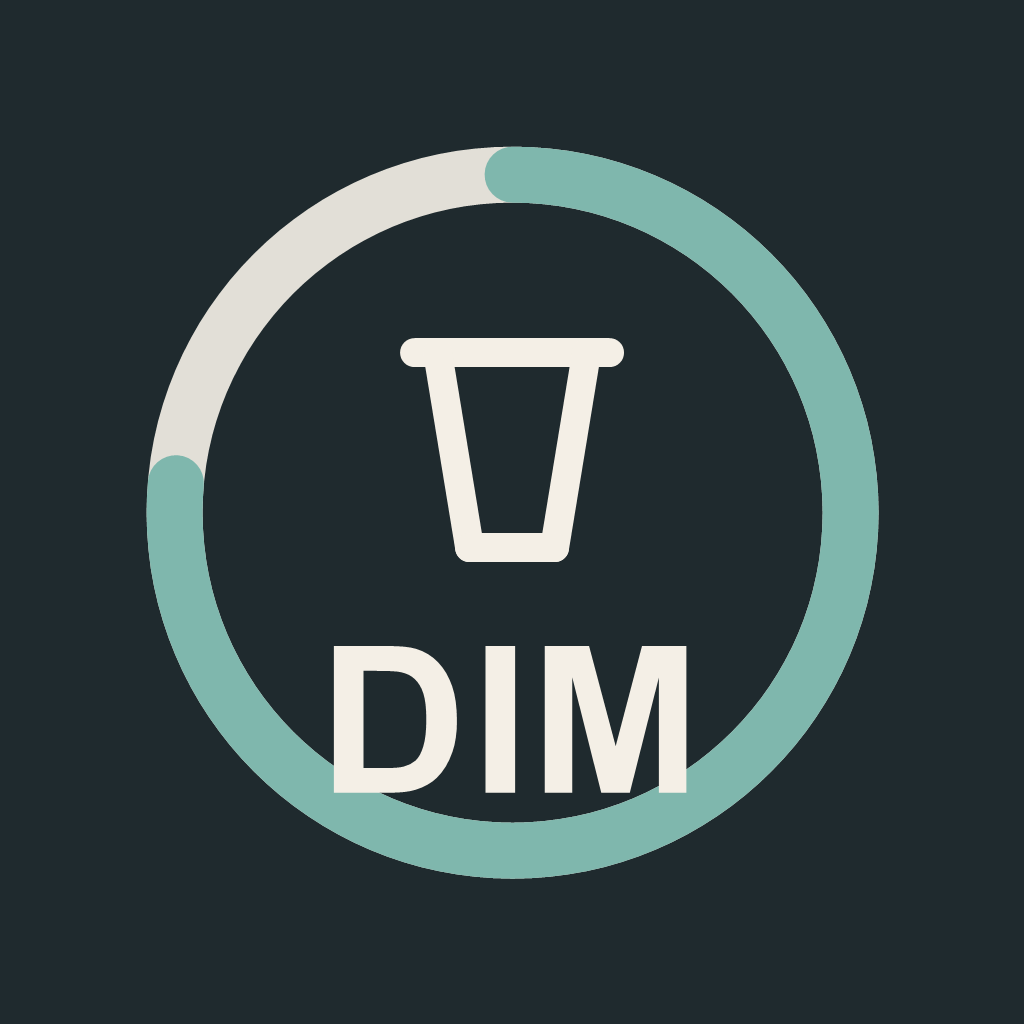
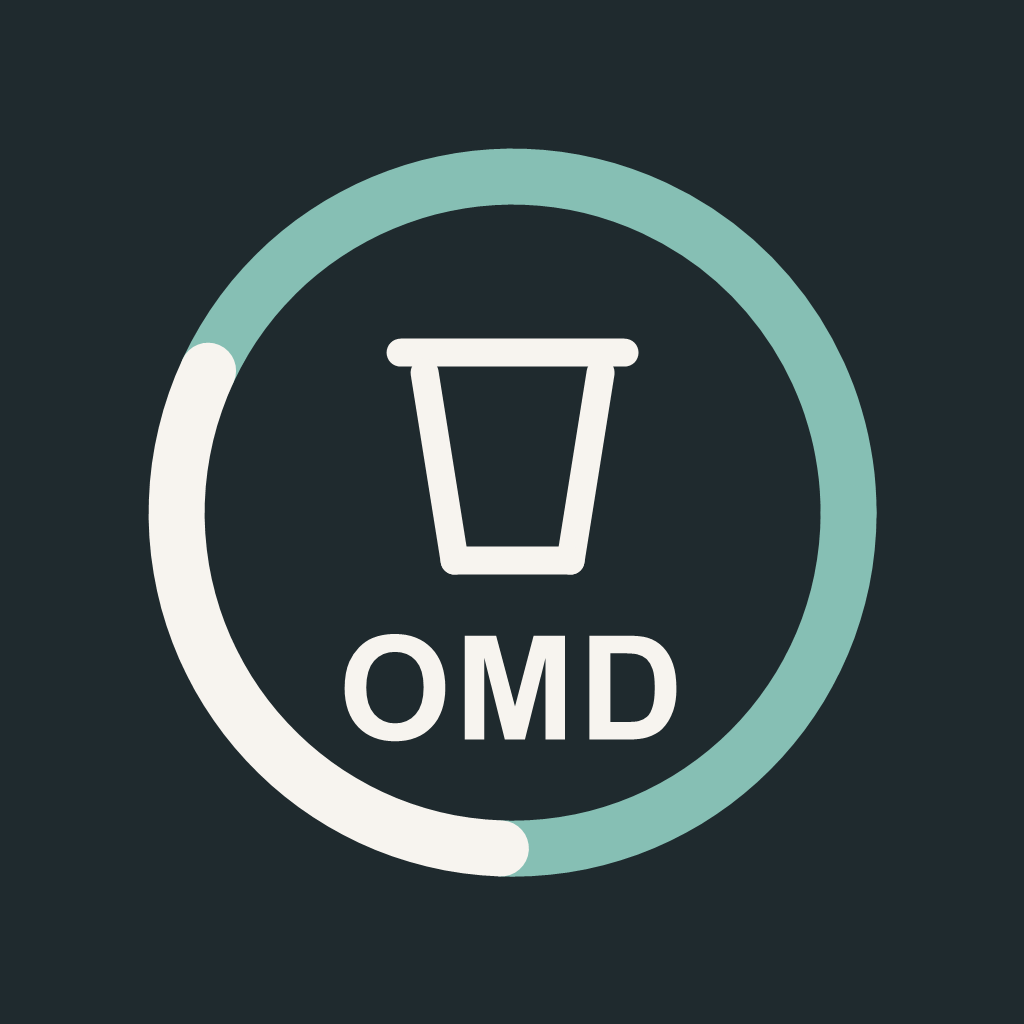
Rebrand app to One More Drink

diff --git a/app/settings.tsx b/app/settings.tsx
@@ -35,7 +35,7 @@ const waterReminderOptions: { label: string; value: WaterReminderPreference }[] 
 const reminderSoundOptions: { label: string; value: ReminderSoundChoice }[] = [
   { label: "System default", value: "system" },
   { label: "Silent / vibrate only", value: "silent" },
-  { label: "Built-in DIM sound", value: "built-in" },
+  { label: "Built-in OMD sound", value: "built-in" },
   { label: "Choose audio file from device", value: "device-file" },
 ];
 
@@ -74,7 +74,7 @@ export default function SettingsScreen() {
         },
       });
     } catch {
-      Alert.alert("Audio file not selected", "DIM could not open the audio picker on this device.");
+      Alert.alert("Audio file not selected", "OMD could not open the audio picker on this device.");
     }
   };
 
@@ -94,7 +94,7 @@ export default function SettingsScreen() {
       return;
     }
 
-    Alert.alert("Test failed", "DIM could not schedule the test notification on this device.");
+    Alert.alert("Test failed", "OMD could not schedule the test notification on this device.");
   };
 
   const confirmClearCompletedSessions = () => {
@@ -260,7 +260,7 @@ export default function SettingsScreen() {
 
       <View style={styles.card}>
         <Text style={styles.sectionTitle}>Onboarding</Text>
-        <Text style={styles.body}>Review the short introduction to DIM again.</Text>
+        <Text style={styles.body}>Review the short introduction to OMD again.</Text>
         <Pressable
           onPress={() => {
             updateSettings({ onboardingCompleted: false });
@@ -274,13 +274,13 @@ export default function SettingsScreen() {
 
       <View style={styles.card}>
         <Text style={styles.sectionTitle}>App info</Text>
-        <InfoRow label="App name" value="DrinkInModeration" />
-        <InfoRow label="Short name" value="DIM" />
-        <InfoRow label="Tagline" value="Make a sober plan. Keep it." />
+        <InfoRow label="App name" value="One More Drink" />
+        <InfoRow label="Short name" value="OMD" />
+        <InfoRow label="Tagline" value="Make a sober plan. Stick to it." />
         <InfoRow label="Version" value={appVersion} />
-        <Text style={styles.note}>DIM stores your session data locally on this device.</Text>
+        <Text style={styles.note}>OMD stores your session data locally on this device.</Text>
         <Text style={styles.note}>
-          DIM is a planning and harm-reduction tool. It is not medical advice. If alcohol is
+          One More Drink is a planning and harm-reduction tool. It is not medical advice. If alcohol is
           causing repeated harm or feels difficult to control, consider speaking with a qualified
           professional.
         </Text>
@@ -325,7 +325,7 @@ function ReminderSoundPicker({
       </View>
       {setting.choice === "built-in" ? (
         <Text style={styles.note}>
-          Uses the bundled DIM sound in development and preview builds. Expo Go may still use the
+          Uses the bundled OMD sound in development and preview builds. Expo Go may still use the
           system default.
         </Text>
       ) : null}

diff --git a/app/index.tsx b/app/index.tsx
@@ -43,7 +43,7 @@ export default function HomeScreen() {
   if (isRestoringSettings || !settings.onboardingCompleted) {
     return (
       <View style={styles.loadingScreen}>
-        <Text style={styles.kicker}>DIM</Text>
+        <Text style={styles.kicker}>OMD</Text>
         <Text style={styles.body}>Getting the app ready.</Text>
       </View>
     );
@@ -53,9 +53,9 @@ export default function HomeScreen() {
     <ScrollView contentContainerStyle={styles.screen}>
       <View style={styles.topBar}>
         <View style={styles.brandBlock}>
-          <Text style={styles.kicker}>DIM</Text>
-          <Text style={styles.title}>DrinkInModeration</Text>
-          <Text style={styles.subtitle}>Make a sober plan. Keep it.</Text>
+          <Text style={styles.kicker}>OMD</Text>
+          <Text style={styles.title}>One More Drink</Text>
+          <Text style={styles.subtitle}>Make a sober plan. Stick to it.</Text>
         </View>
         <Pressable
           accessibilityLabel="Settings"
@@ -134,7 +134,7 @@ export default function HomeScreen() {
       </View>
 
       <Text style={styles.privacyNote}>
-        DIM stores your session data locally on this device.
+        OMD stores your session data locally on this device.
       </Text>
     </ScrollView>
   );

diff --git a/app/onboarding.tsx b/app/onboarding.tsx
@@ -10,8 +10,8 @@ const onboardingSteps = [
     title: "Make the plan while sober",
   },
   {
-    body: "DIM tracks the interval, reminds you when the drink window is open, and keeps the plan visible.",
-    title: "Let DIM handle the timing",
+    body: "OMD tracks the interval, reminds you when the drink window is open, and keeps the plan visible.",
+    title: "Let OMD handle the timing",
   },
   {
     body: "Afterward, review what happened and adjust your next plan.",
@@ -38,8 +38,8 @@ export default function OnboardingScreen() {
   return (
     <View style={styles.screen}>
       <View style={styles.header}>
-        <Text style={styles.kicker}>DIM</Text>
-        <Text style={styles.tagline}>Make a sober plan. Keep it.</Text>
+        <Text style={styles.kicker}>OMD</Text>
+        <Text style={styles.tagline}>Make a sober plan. Stick to it.</Text>
       </View>
 
       <View style={styles.card}>
@@ -61,7 +61,7 @@ export default function OnboardingScreen() {
 
       <Pressable onPress={handleNext} style={styles.primaryButton}>
         <Text style={styles.primaryButtonText}>
-          {isFinalStep ? "Start using DIM" : "Next"}
+          {isFinalStep ? "Start using OMD" : "Next"}
         </Text>
       </Pressable>
     </View>

diff --git a/utils/session-notifications.ts b/utils/session-notifications.ts
@@ -32,7 +32,7 @@ const notificationChannels: Record<
   },
 };
 
-// DIM uses only local notification APIs here. Expo Go may still log its Android
+// OMD uses only local notification APIs here. Expo Go may still log its Android
 // remote push warning when this module imports expo-notifications; we do not call
 // push token APIs or configure remote push delivery.
 Notifications.setNotificationHandler({
@@ -341,8 +341,8 @@ async function ensureAndroidReminderChannel(channelId: string, sound?: string | 
 
 function getAndroidChannelName(channelId: string) {
   if (channelId.includes("go-home")) {
-    return channelId.includes("silent") ? "DIM go-home reminders silent" : "DIM go-home reminders";
+    return channelId.includes("silent") ? "OMD go-home reminders silent" : "OMD go-home reminders";
   }
 
-  return channelId.includes("silent") ? "DIM interval reminders silent" : "DIM interval reminders";
+  return channelId.includes("silent") ? "OMD interval reminders silent" : "OMD interval reminders";
 }

diff --git a/app/_layout.tsx b/app/_layout.tsx
@@ -16,7 +16,7 @@ export default function RootLayout() {
             headerTitleStyle: { fontWeight: "700" },
           }}
         >
-          <Stack.Screen name="index" options={{ title: "DrinkInModeration" }} />
+          <Stack.Screen name="index" options={{ title: "One More Drink" }} />
           <Stack.Screen name="onboarding" options={{ headerShown: false }} />
           <Stack.Screen name="new-session" options={{ title: "New Session" }} />
           <Stack.Screen name="active-session" options={{ title: "Active Session" }} />

diff --git a/README.md b/README.md
@@ -1,22 +1,22 @@
-# DrinkInModeration
+# One More Drink
 
-**Make a sober plan. Keep it.**
+**Make a sober plan. Stick to it.**
 
-DrinkInModeration, or DIM, is a React Native Expo mobile app for alcohol harm reduction. It helps a user make a clear plan before drinking, then keeps pacing, spending, and session guardrails visible once the session starts.
+One More Drink, or OMD, is a React Native Expo mobile app for alcohol harm reduction. The name is intentionally cheeky, but the purpose is serious: help a user make a clear sober plan before drinking, then keep pacing, spending, and session guardrails visible once the session starts.
 
-DIM is not designed to encourage drinking. It is a sober pre-commitment assistant and personal behavior design project built as a React Native / Expo portfolio app.
+OMD is not designed to encourage drinking. It is a sober pre-commitment and pacing assistant that helps users pause before the next drink, respect their limits, track spending, and end the session with fewer regrets.
 
 ## Problem Statement
 
-Manual phone timers are clunky during social drinking, and relying on judgment after a few drinks is unreliable. DIM helps users set a plan before drinking, then keeps timing, spending, and session guardrails visible.
+Manual phone timers are clunky during social drinking, and relying on judgment after a few drinks is unreliable. OMD helps users set a plan before drinking, then keeps timing, spending, and session guardrails visible.
 
 ## Why I Built This
 
-I built DIM to turn a simple harm-reduction strategy into a practical mobile product: make the important decisions while sober, then use the app to keep pacing, limits, and spending visible during the session. The project also gave me a focused way to learn a Codex-first development workflow while building something grounded in a real user need.
+I built OMD to turn a simple harm-reduction strategy into a practical mobile product: make the important decisions while sober, then use the app to keep pacing, limits, and spending visible during the session. The project also gave me a focused way to learn a Codex-first development workflow while building something grounded in a real user need.
 
 ## Core Concept
 
-The user makes the plan while sober. DIM helps protect that plan later by making the next decision easier:
+The user makes the plan while sober. OMD helps protect that plan later by making the next decision easier:
 
 - How many drinks are left?
 - Is the next drink window open?
@@ -37,7 +37,7 @@ The tone is calm, practical, direct, and non-judgmental.
 
 ## Features
 
-- First-run onboarding with the core DIM concept
+- First-run onboarding with the core OMD concept
 - Quick-start session presets:
   - Solo / Home
   - Drinks @Home w/ Company
@@ -99,7 +99,7 @@ Start the app for a development build:
 npx expo start --dev-client
 ```
 
-Expo Go may not be sufficient for all testing because DIM uses native notification behavior and has a custom development build setup.
+Expo Go may not be sufficient for all testing because OMD uses native notification behavior and has a custom development build setup.
 
 ## Running Locally
 
@@ -135,7 +135,7 @@ After installing the development build on the phone, start Metro:
 npx expo start --dev-client
 ```
 
-Open the installed DIM development build and connect to the Metro URL shown in the terminal.
+Open the installed OMD development build and connect to the Metro URL shown in the terminal.
 
 ## Preview APK Build
 
@@ -149,11 +149,11 @@ The preview profile is configured for APK output in `eas.json`.
 
 ## Privacy
 
-DIM stores session data locally on the device. The MVP does not use accounts, cloud sync, analytics, or a backend.
+OMD stores session data locally on the device. The MVP does not use accounts, cloud sync, analytics, or a backend.
 
 ## Harm-Reduction Disclaimer
 
-DIM is a planning and harm-reduction tool, not medical advice. If alcohol is causing repeated harm or feels difficult to control, consider speaking with a qualified professional.
+One More Drink is a planning and harm-reduction tool, not medical advice. If alcohol is causing repeated harm or feels difficult to control, consider speaking with a qualified professional.
 
 ## Roadmap
 

diff --git a/SPEC.md b/SPEC.md
@@ -1,14 +1,14 @@
-# DrinkInModeration (DIM) — Product Spec
+# One More Drink (OMD) - Product Spec
 
 ## Purpose
 
-DrinkInModeration (DIM) is a harm-reduction mobile app that helps users stick to a sober pre-commitment when drinking.
+One More Drink (OMD) is a harm-reduction mobile app that helps users stick to a sober pre-commitment when drinking.
 
-The app is not designed to encourage drinking. It is designed to help users pace themselves, avoid blackouts, respect a drink maximum, control spending, and end the night while still in control.
+The name is intentionally cheeky, but the app is not designed to encourage drinking. It is designed to help users pace themselves, avoid blackouts, respect a drink maximum, control spending, and end the night while still in control.
 
 ## Core Philosophy
 
-The user makes the plan while sober. DIM helps protect that plan once drinking has started.
+The user makes the plan while sober. OMD helps protect that plan once drinking has started.
 
 Tone should be calm, non-judgmental, practical, and direct.
 
@@ -30,8 +30,8 @@ The MVP should allow a user to:
 
 ### Home
 
-- App name: DrinkInModeration
-- Short tagline
+- App name: One More Drink
+- Short tagline: Make a sober plan. Stick to it.
 - Button to start a new session
 - Button to view past sessions, if implemented
 

diff --git a/CODEX.md b/CODEX.md
@@ -1,6 +1,6 @@
-# Codex Instructions for DrinkInModeration
+# Codex Instructions for One More Drink
 
-You are helping build DrinkInModeration, a React Native Expo TypeScript app.
+You are helping build One More Drink, a React Native Expo TypeScript app.
 
 Follow these rules:
 
